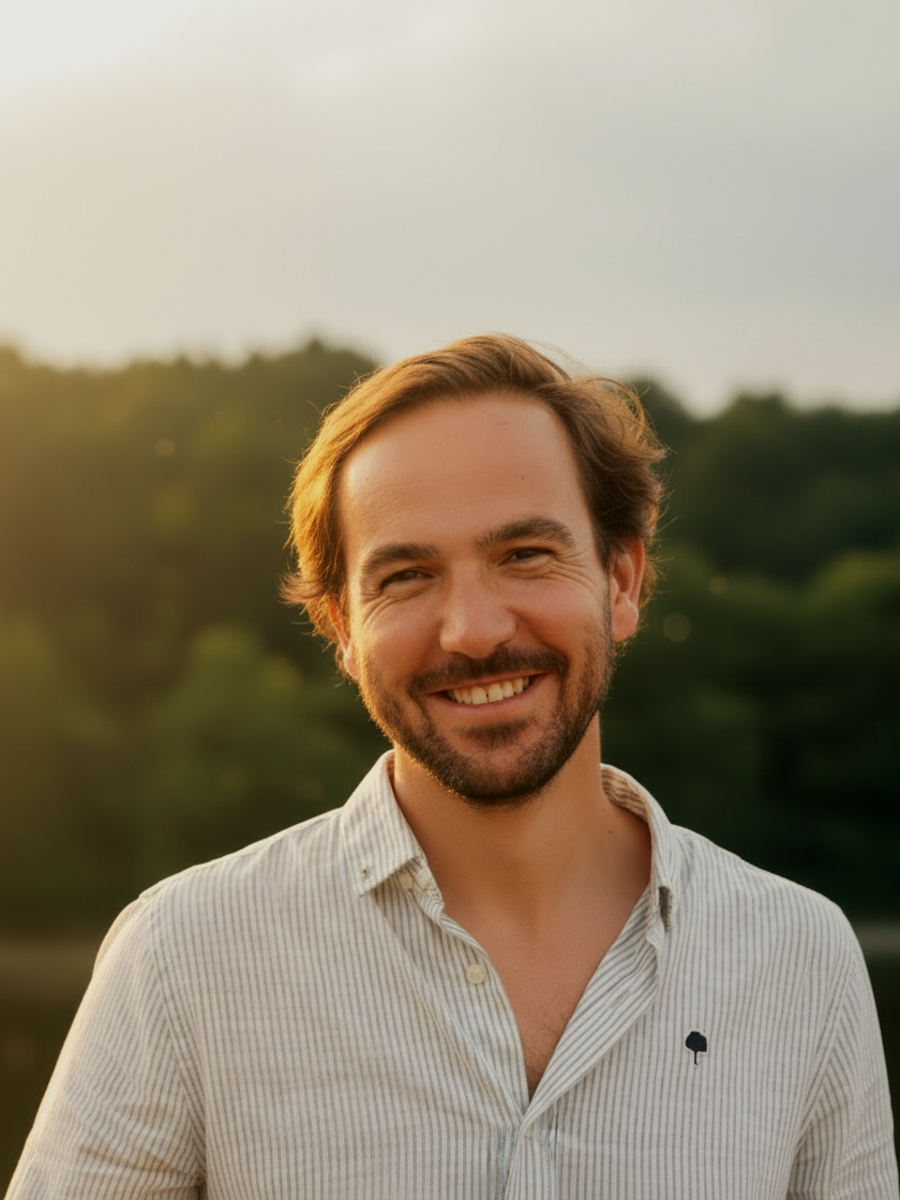
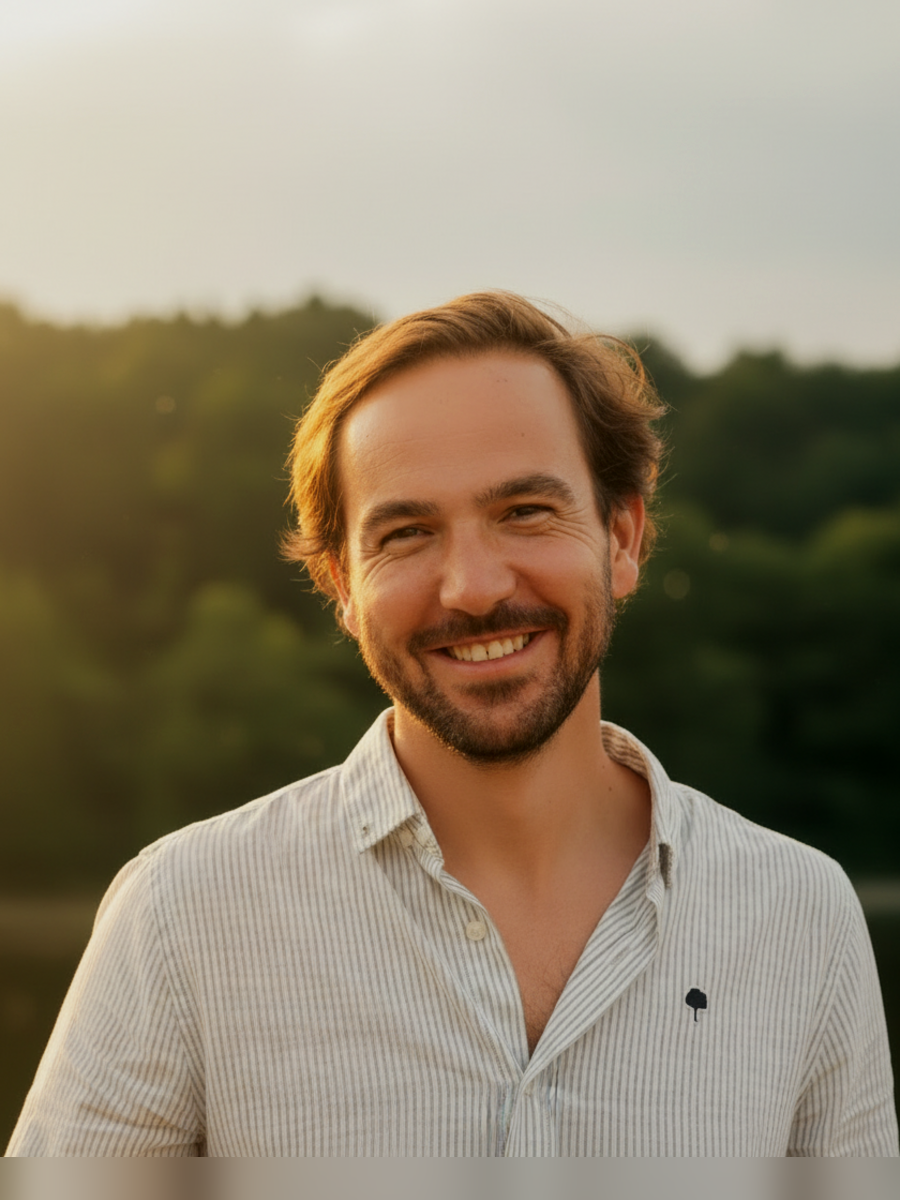
fix: 3-column grid on desktop + align all head heights
GRID (6th time asked — finally fixed properly):
- Remove max-width: 400px on PropertyCard (was breaking grid fill)
- Lower 3-col breakpoint from 1280px to 1024px
- 2-col at 600-1023px, 1-col below 600px

PHOTOS (head alignment):
- All 3 heads now at row 307 (pixel-measured, verified)
- Thomas shifted up 90px, Maxime shifted up 43px
- Carl unchanged (reference position)

https://claude.ai/code/session_01WfcdLUCpeSBFYfx38U6ocF

Changed region(s): [[0.0, 0.2158, 1.0, 1.0], [0.1556, 0.4008, 0.2178, 0.4317], [0.2489, 0.3392, 0.28, 0.37]]

diff --git a/versi-immobilier/src/components/FeaturedProjects.css b/versi-immobilier/src/components/FeaturedProjects.css
@@ -16,8 +16,7 @@
 .featured__grid {
   display: grid;
   grid-template-columns: repeat(3, 1fr);
-  gap: var(--spacing-xl);
-  max-width: 1200px;
+  gap: var(--spacing-lg);
 }
 
 .featured__cta-wrapper {
@@ -41,13 +40,13 @@
 }
 
 /* Responsive */
-@media (max-width: 1279px) {
+@media (max-width: 1023px) {
   .featured__grid {
     grid-template-columns: repeat(2, 1fr);
   }
 }
 
-@media (max-width: 767px) {
+@media (max-width: 599px) {
   .featured__grid {
     grid-template-columns: 1fr;
   }

diff --git a/versi-immobilier/src/components/PropertyCard.css b/versi-immobilier/src/components/PropertyCard.css
@@ -106,10 +106,6 @@
 }
 
 @media (min-width: 1280px) {
-  .property-card {
-    max-width: 400px;
-  }
-
   .property-card__image {
     aspect-ratio: 16 / 10;
   }
